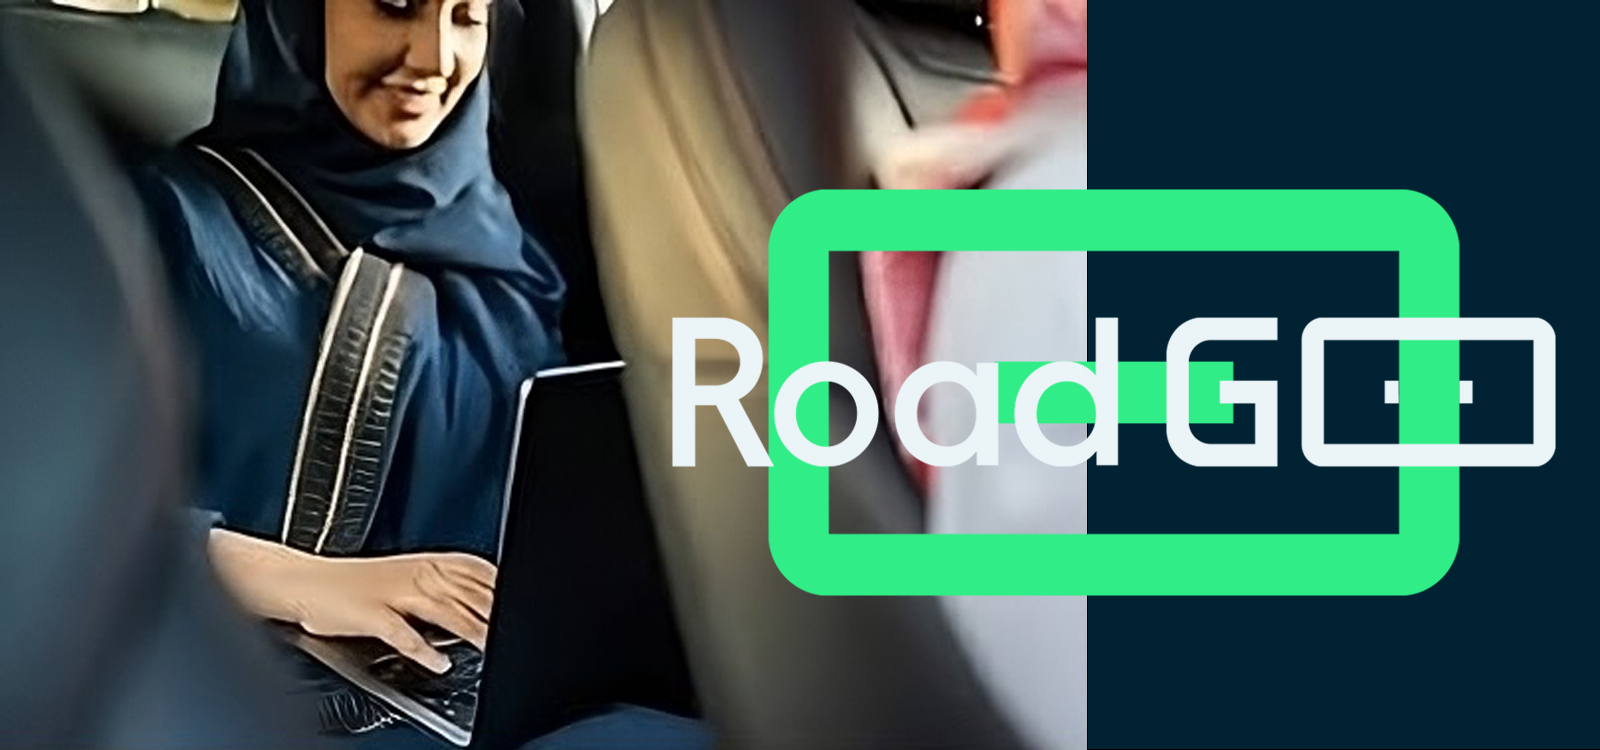
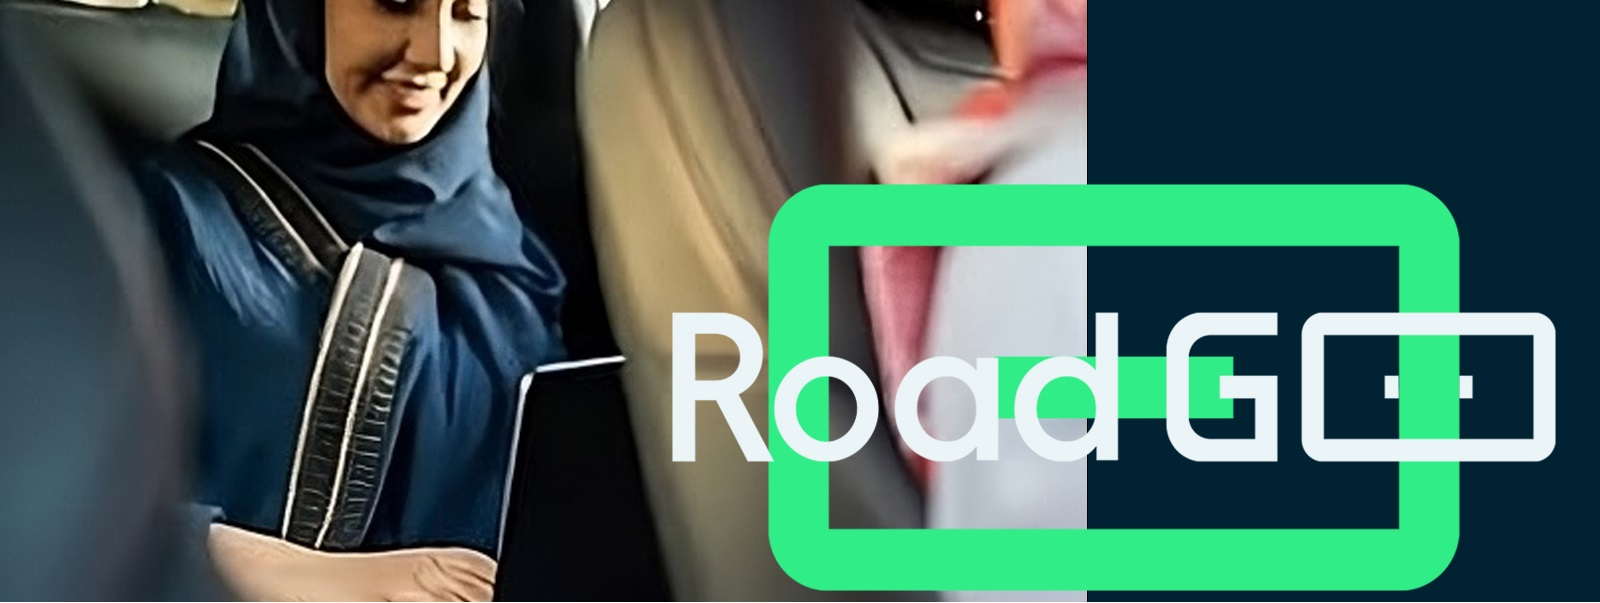
updated the contact form-add responsive image-enlarged textArea-removed trashes for zezo

diff --git a/Contact.html b/Contact.html
@@ -41,6 +41,36 @@
   </script>
   <!-- end-script of emailjs -->
 
+  <style>
+    .form {
+      display: grid;
+      grid-template-columns: repeat(2, 1fr);
+      align-items: center;
+      padding: 2rem 0px;
+      border-top: 1px solid rgb(199, 199, 199);
+      
+    }
+    
+    .form img {
+      max-width: 100%;
+      margin-bottom: 1%;
+      margin-right: 6%;
+    }
+
+
+    textarea.form-control {
+      min-height: calc(1.5em + 6.75rem + calc(var(--bs-border-width) * 2)) !important;
+    }
+
+    @media (max-width: 768px) {
+      .form {
+
+        display: inline-block;
+
+      }
+      
+    }
+  </style>
 </head>
 
 <body dir="rtl">
@@ -138,6 +168,7 @@
           src="https://www.google.com/maps/embed?pb=!1m18!1m12!1m3!1d3510.0618505378416!2d36.581756!3d28.387199799999998!2m3!1f0!2f0!3f0!3m2!1i1024!2i768!4f13.1!3m3!1m2!1s0x15a9adcd63e1b7f7%3A0x42da15fa861474e2!2z2YjYrNmK2YYg2YTYqtmC2YbZitipINin2YTZhdi52YTZiNmF2KfYqg!5e0!3m2!1sen!2seg!4v1698530920735!5m2!1sen!2seg"
           width="100%" height="200" frameborder="0" style="border:0" allowfullscreen></iframe>
       </div>
+
       <div class="container">
         <div class="form">
           <form action="#" method="post" role="form" class="php-email-form" id="contact-form">
@@ -151,10 +182,11 @@
               </div>
             </div>
             <div class="form-group mt-3">
-              <input type="text" class="form-control" name="subject" id="subject" placeholder="الموضوع" required>
+              <input type="text" class="form-control" name="subject" id="subject" placeholder="الموضوع">
             </div>
             <div class="form-group mt-3">
-              <textarea class="form-control" name="message" rows="5" placeholder="رسالتك" required></textarea>
+              <textarea id="textareaMssg" class="form-control" name="message" rows="5" placeholder="رسالتك"
+                required></textarea>
             </div>
 
             <div class="my-3">
@@ -165,6 +197,9 @@
 
             <div class="text-center"><button class="submit" type="submit">إرسل الان</button></div>
           </form>
+          <div>
+            <img src="./assets/contact-RoadGo.png" class="img-fluid rounded" alt="Responsive Image">
+          </div>
         </div>
 
       </div>
